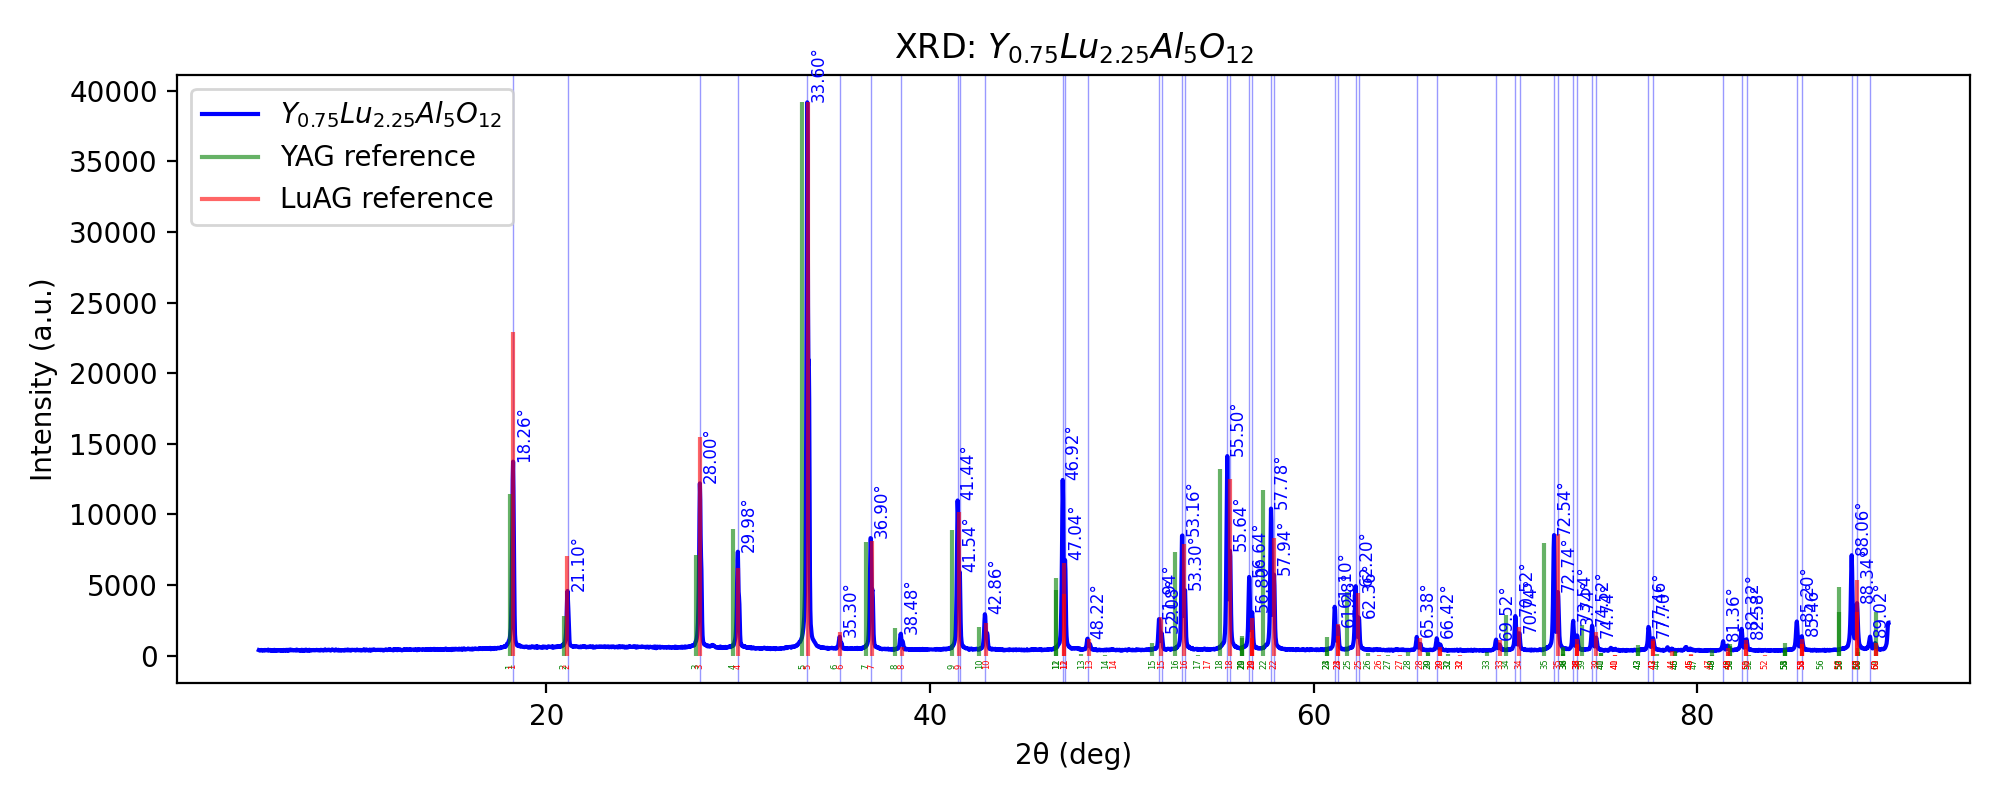
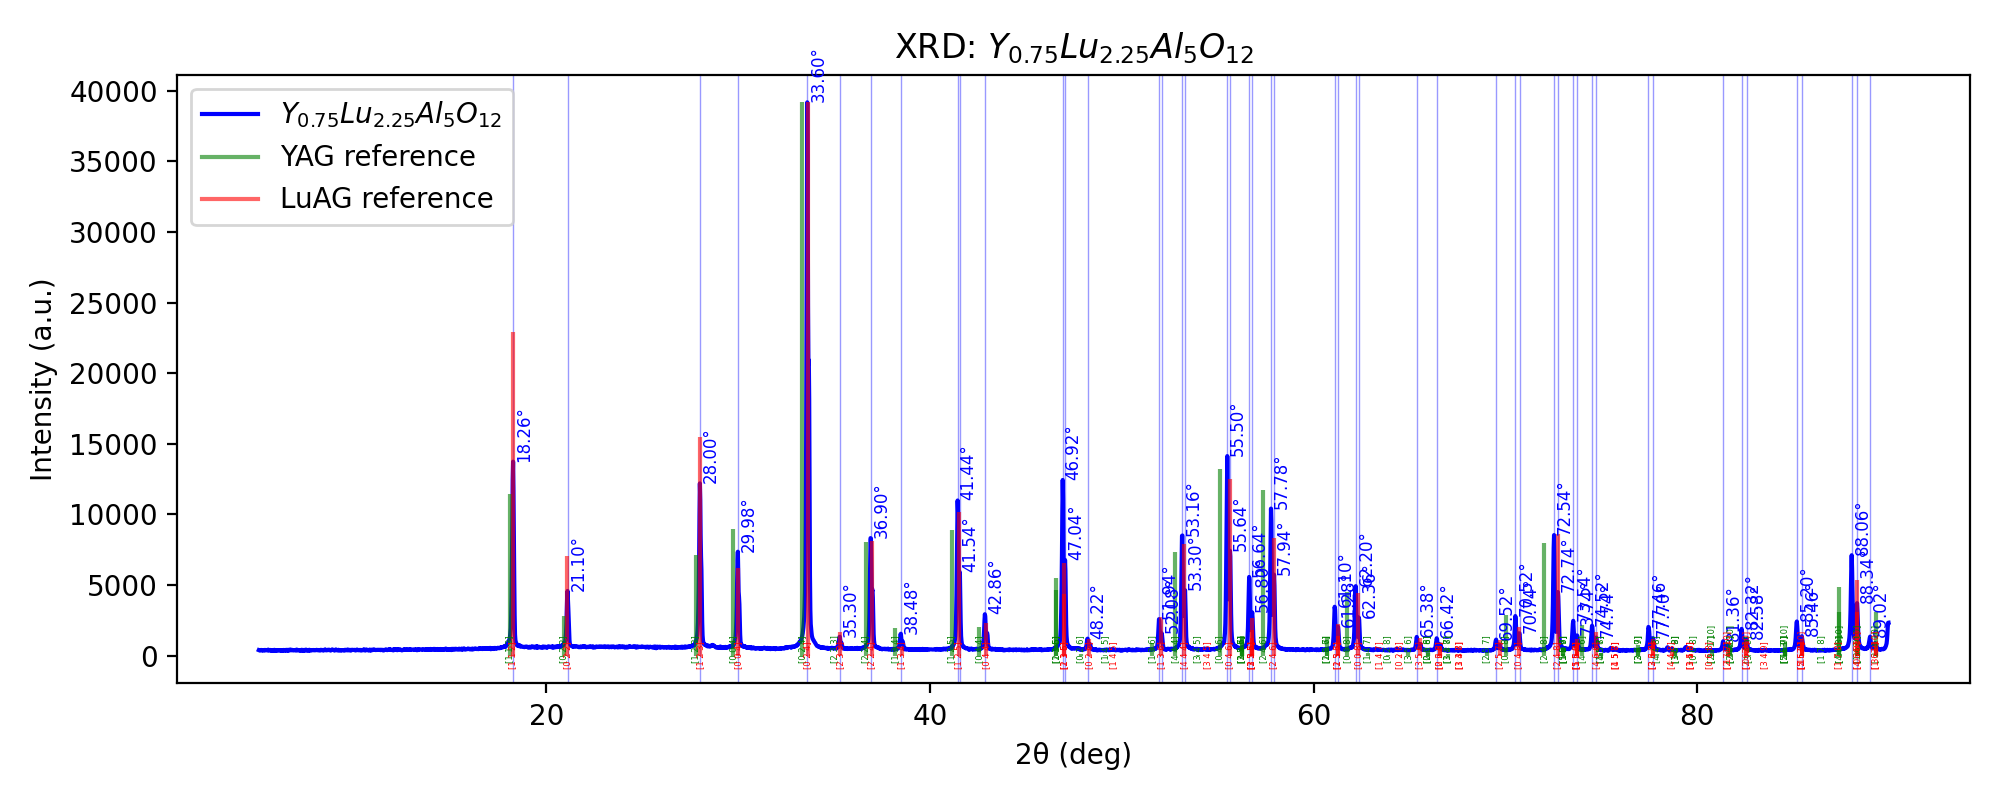
Added miller indices to xrd graph

Changed region(s): [[0.527, 0.7812, 0.93, 0.8438], [0.403, 0.8125, 0.496, 0.8438], [0.341, 0.8125, 0.372, 0.8438]]

diff --git a/code/xrd.py b/code/xrd.py
@@ -44,13 +44,15 @@ def load_reference_pdf(path):
     # find column names automatically
     col_2theta = [c for c in df.columns if "2Theta" in c or "2theta" in c][0]
     col_I = [c for c in df.columns if "Int" in c][0]
-    col_no = [c for c in df.columns if "No" in c or "no" in c][0]  # the enumerator
+    col_no = [c for c in df.columns if "No" in c or "no" in c][0]
 
     two_theta = df[col_2theta].values
     intensity = df[col_I].values
     numbers = df[col_no].values
+    # Miller indices as a (N,3) array
+    hkl = df[["h", "k", "l"]].values  # shape (N,3)
 
-    return two_theta, intensity, numbers
+    return two_theta, intensity, numbers, hkl
 
 
 def get_sample_name(filename):
@@ -101,8 +103,8 @@ for fname, data in sample_data:
         )
 
     # plot reference YAG
-    ry_x, ry_y, ry_no = ref_yag
-    for xx, yy, n in zip(ry_x, ry_y, ry_no):
+    ry_x, ry_y, ry_no, indices_yag = ref_yag
+    for xx, yy, n, hkl in zip(ry_x, ry_y, ry_no, indices_yag):
         # vertical line for reference peak
         plt.vlines(
             xx,
@@ -114,8 +116,8 @@ for fname, data in sample_data:
 
         plt.text(
             xx,  # use the reference peak position
-            np.max(y) * -0.02,  # just below the line
-            f"{n}",  # label
+            np.max(y) * -0.01,  # just below the line
+            f"{hkl}",  # label
             rotation=90,
             fontsize=3,
             color="green",
@@ -124,8 +126,8 @@ for fname, data in sample_data:
     # label for ref
     plt.plot([], [], color="green", alpha=0.6, label="YAG reference")
 
-    rl_x, rl_y, rl_no = ref_lug
-    for xx, yy, n in zip(rl_x, rl_y, rl_no):
+    rl_x, rl_y, rl_no, indices_lug = ref_lug
+    for xx, yy, n, hkl in zip(rl_x, rl_y, rl_no, indices_lug):
 
         # vertical reference line
         plt.vlines(
@@ -139,7 +141,7 @@ for fname, data in sample_data:
         plt.text(
             xx,
             np.max(y) * -0.02,  # just above the line
-            f"{n}",
+            f"{hkl}",
             rotation=90,
             fontsize=3,
             color="red",
